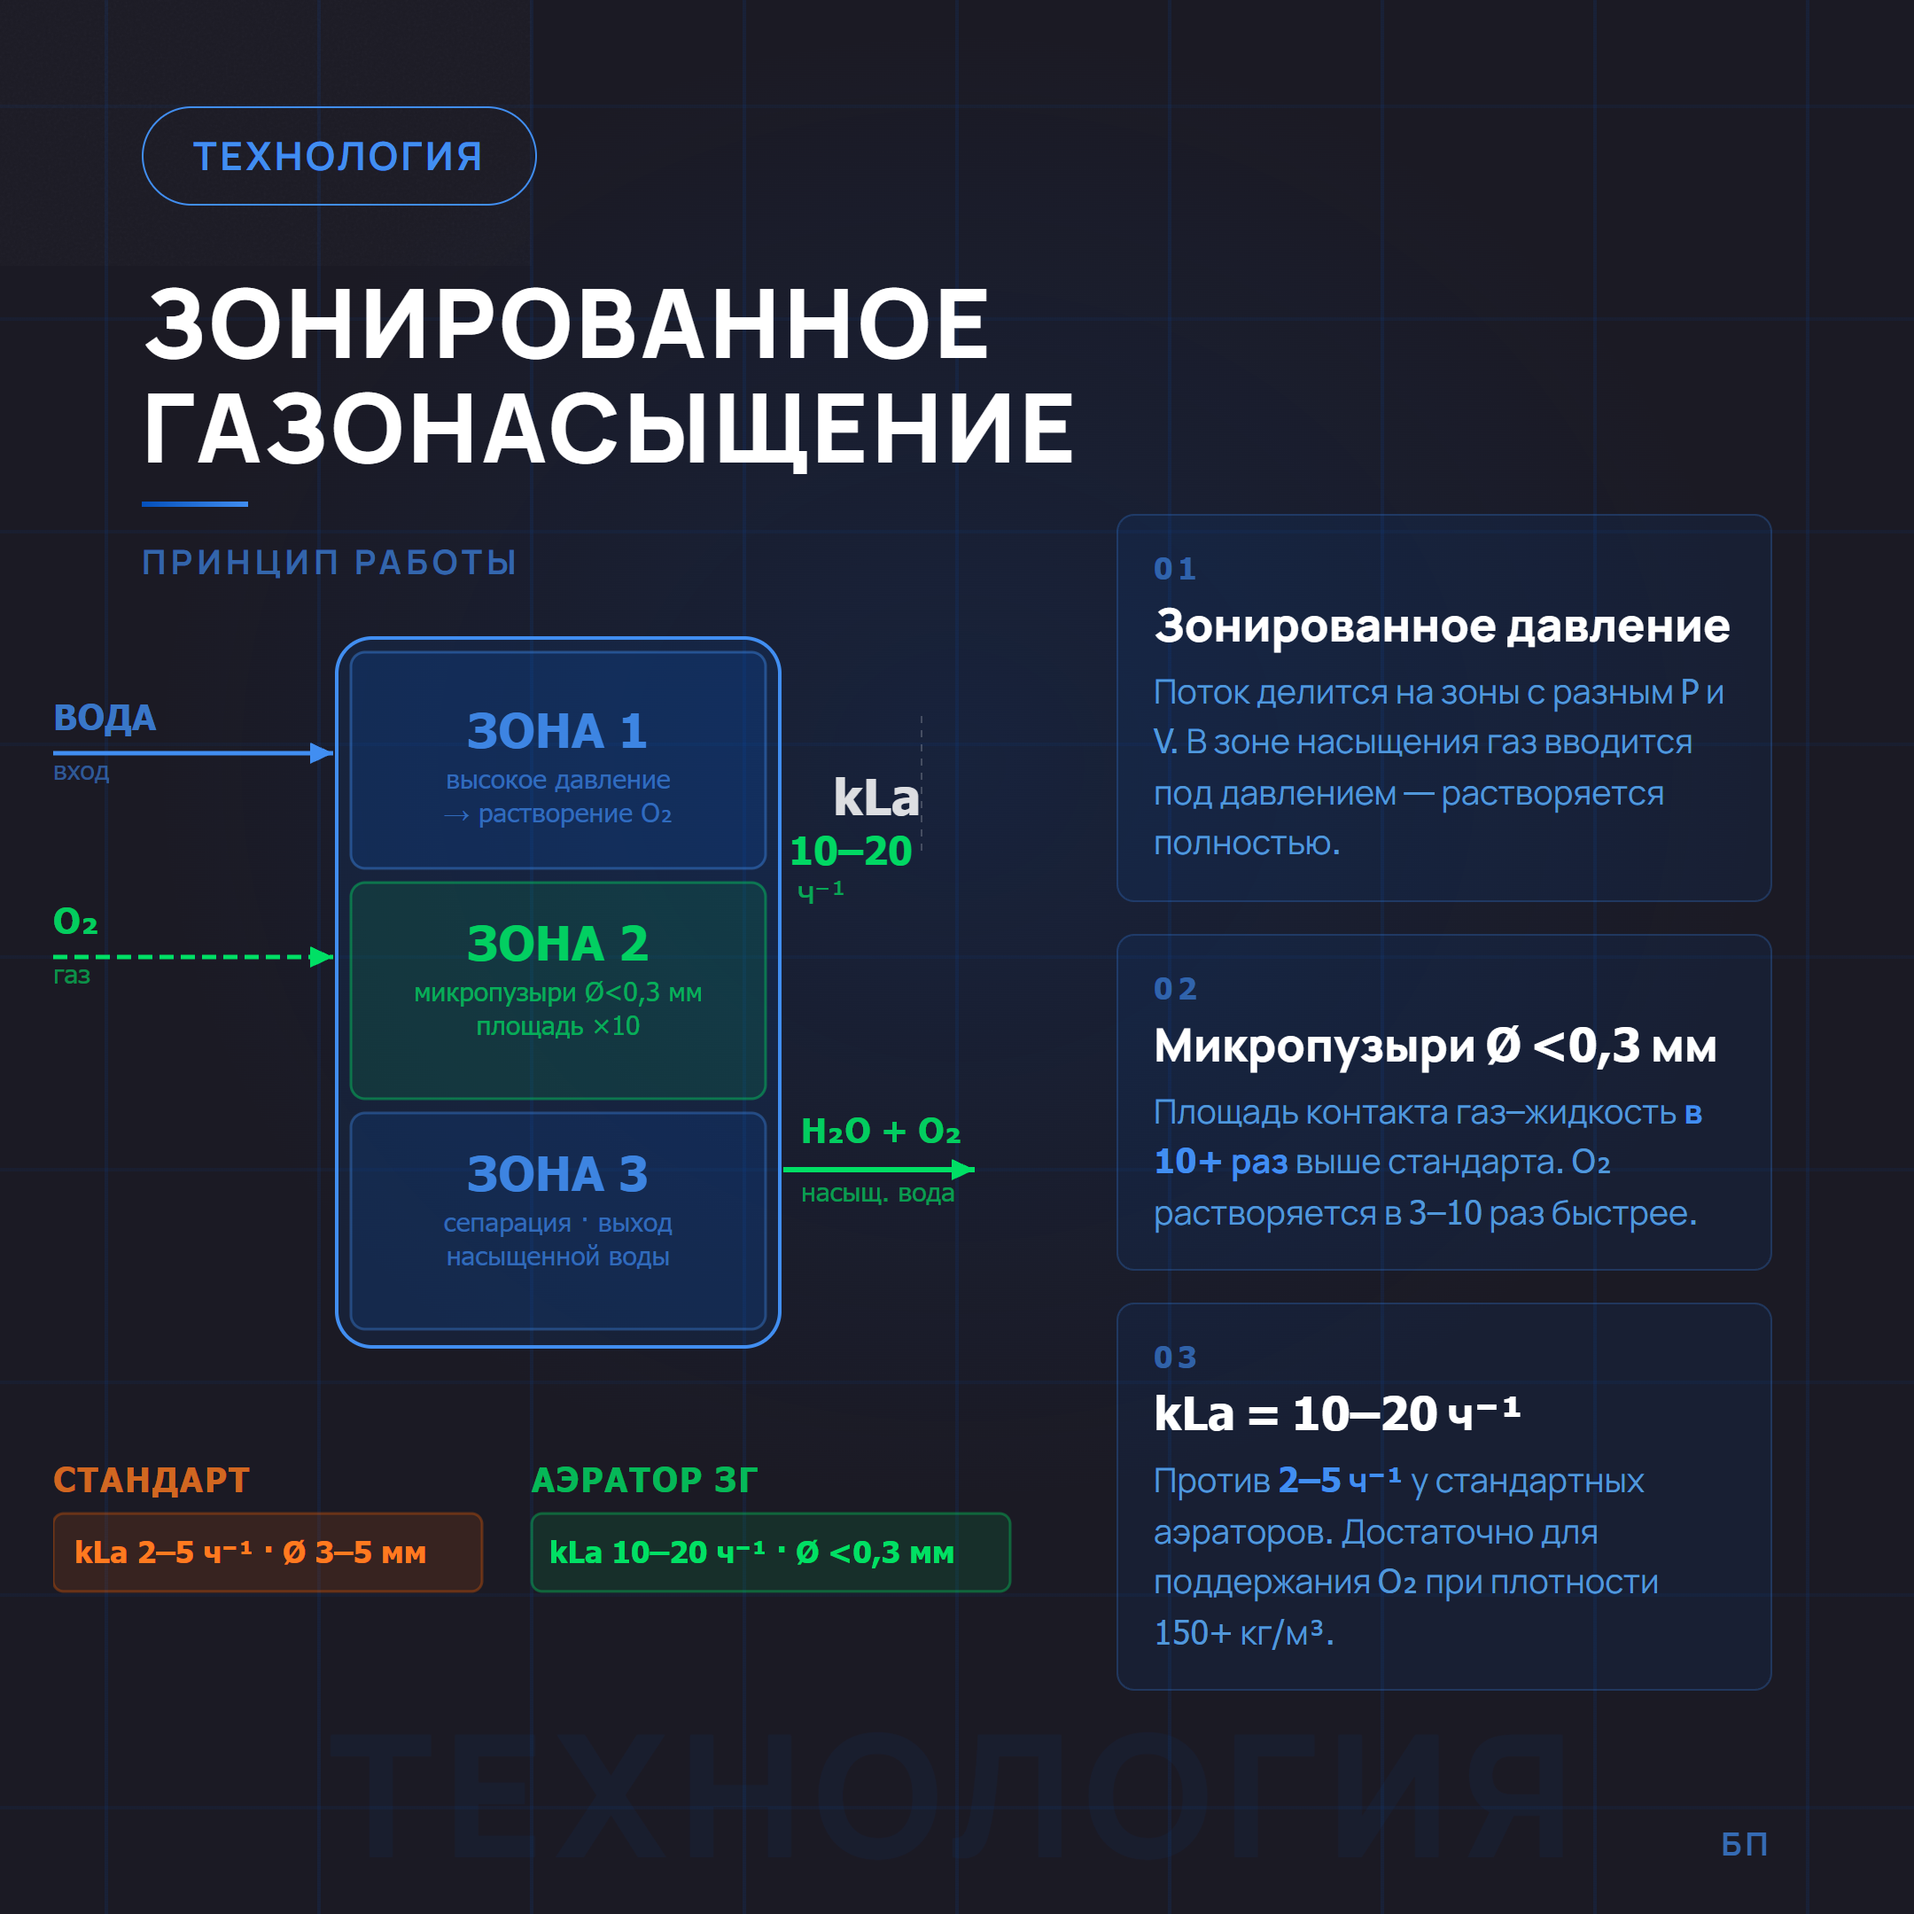
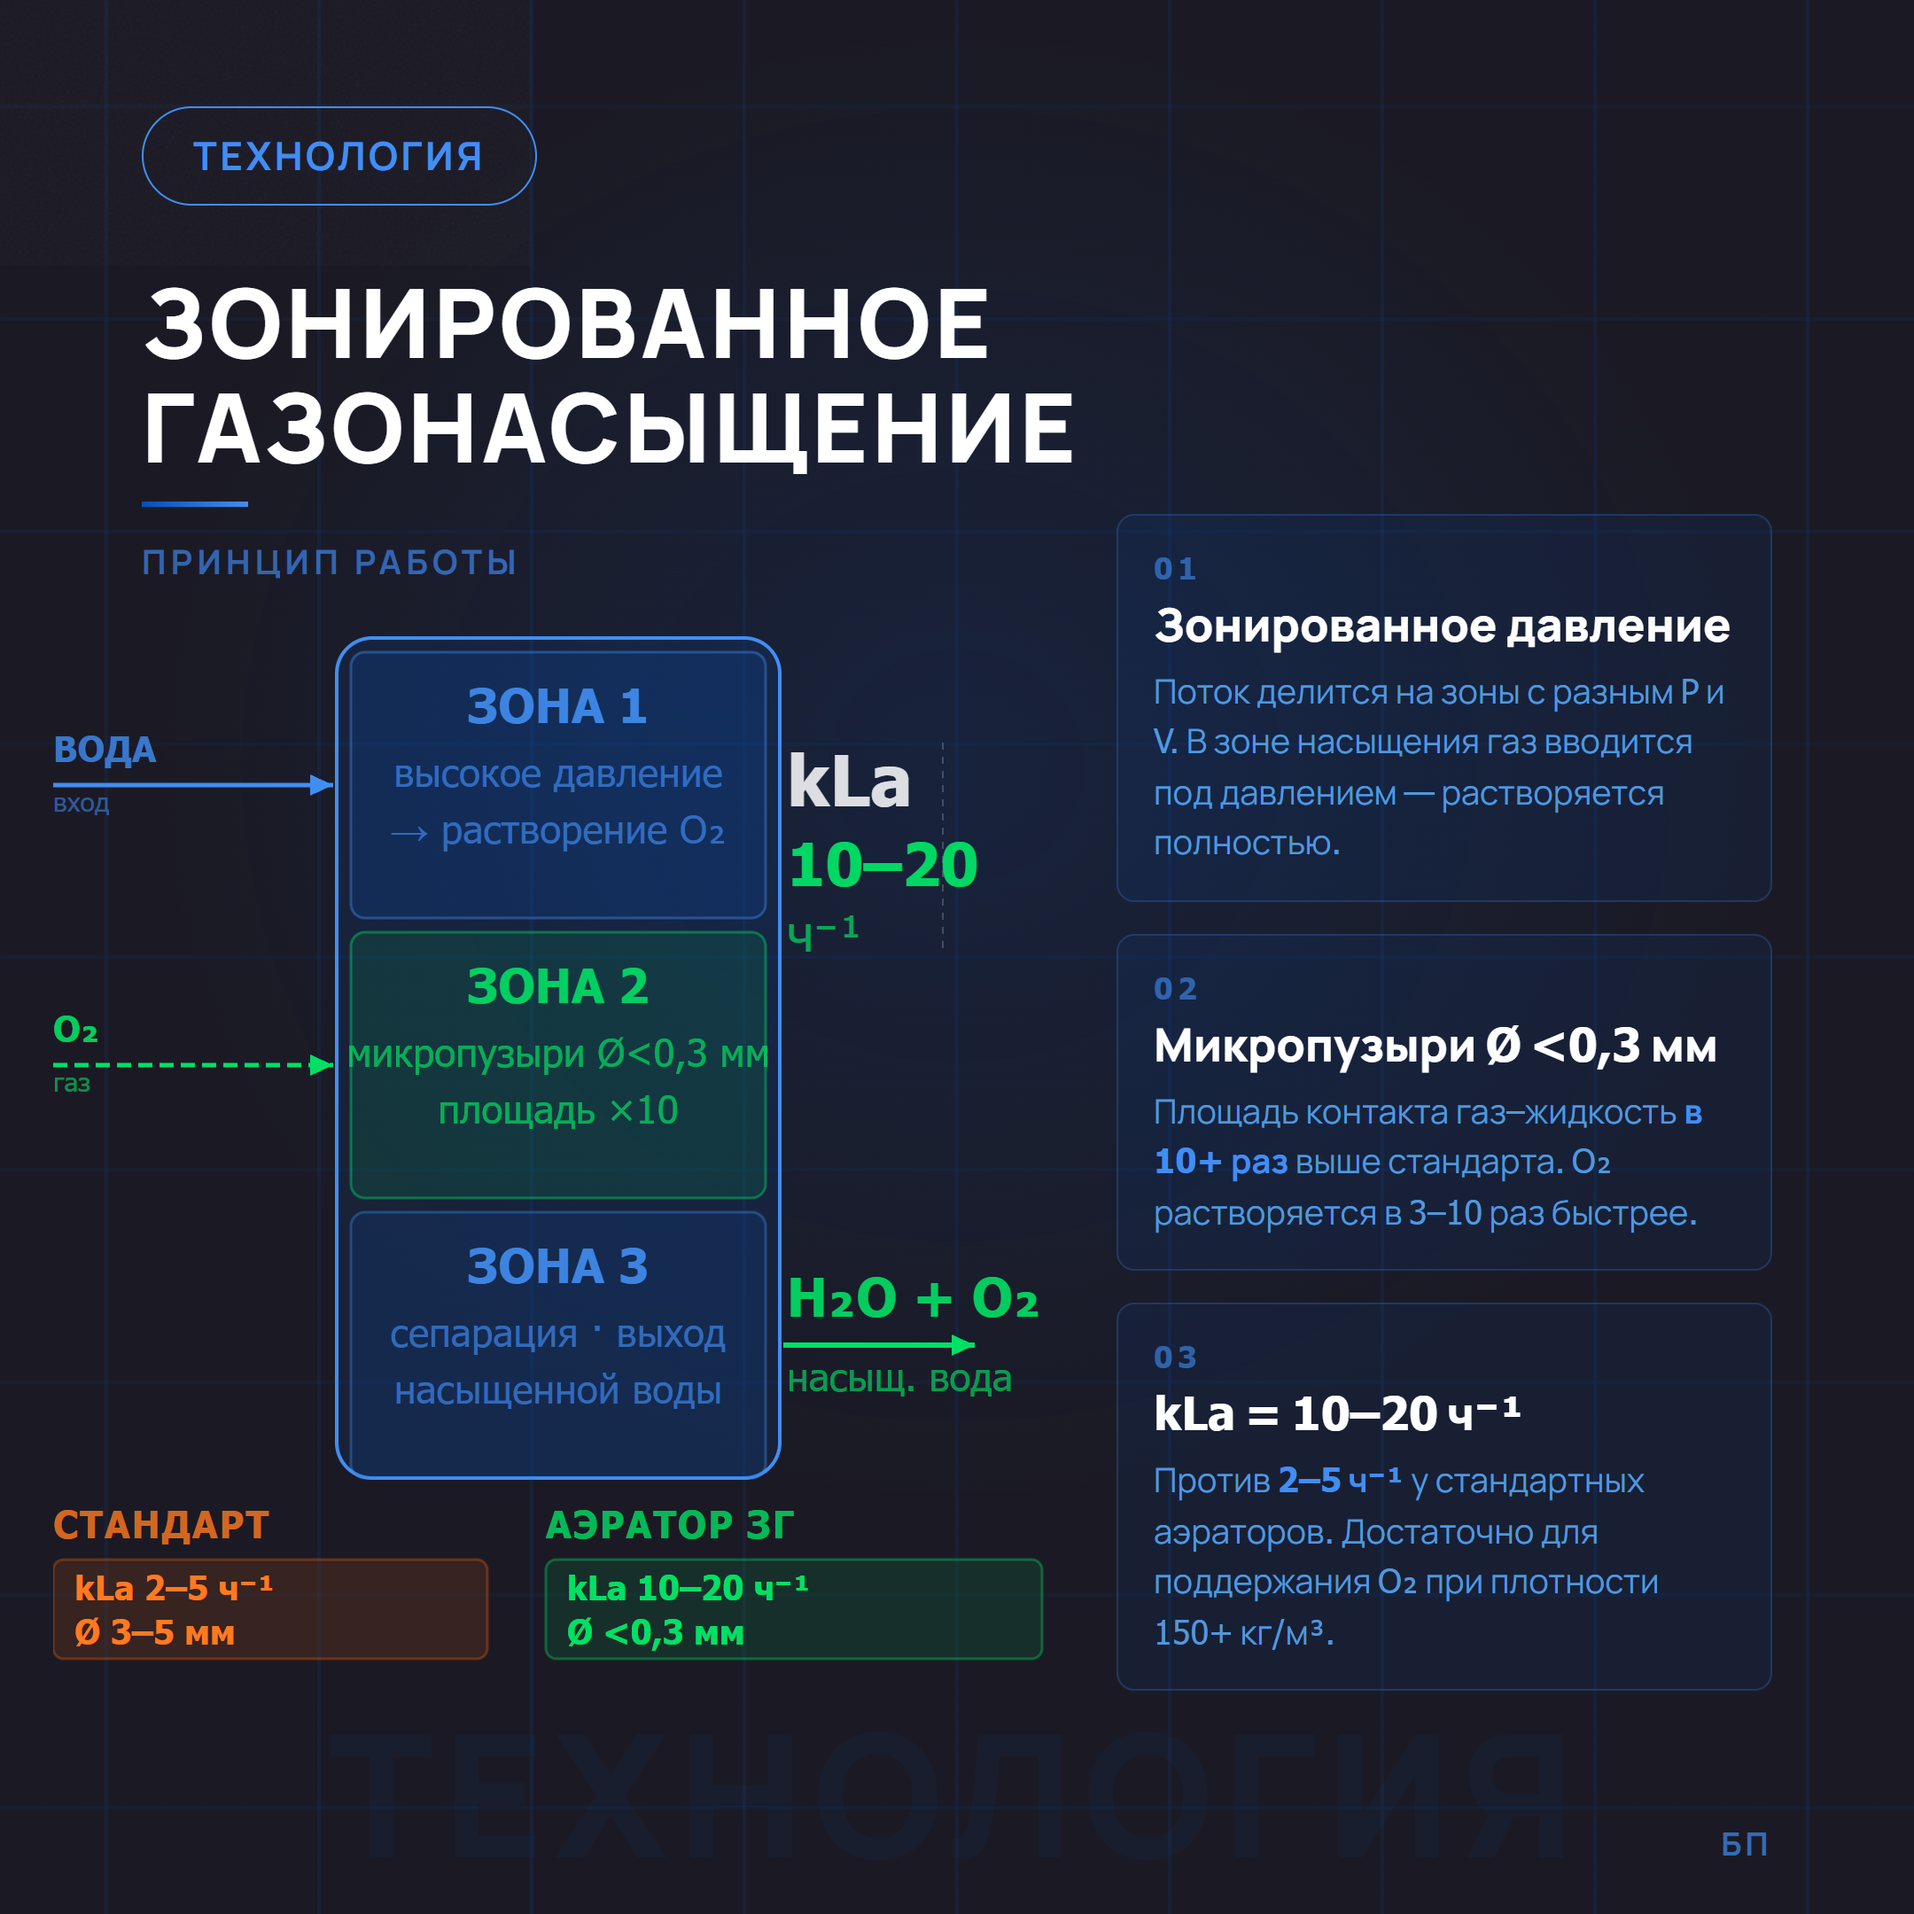
posts: корректировка slide_03 — крупнее зоны, kLa, СТАНДАРТ/АЭРАТОР ЗГ — Bioprintex_Limatex

Changed region(s): [[0.031, 0.3412, 0.5273, 0.8685], [0.031, 0.4653, 0.062, 0.5583], [0.031, 0.3722, 0.0931, 0.4343]]

diff --git a/projects/Bioprintex_Limatex/posts/drafts/05_05_2026-1/slide_03.html b/projects/Bioprintex_Limatex/posts/drafts/05_05_2026-1/slide_03.html
@@ -83,61 +83,63 @@
   <div class="diagram-label">Принцип работы</div>
 
   <!-- SVG-схема аэратора ЗГ -->
-  <svg style="position:absolute;top:340px;left:30px;width:560px;height:610px" viewBox="0 0 560 610" xmlns="http://www.w3.org/2000/svg">
+  <svg style="position:absolute;top:340px;left:30px;width:560px;height:620px" viewBox="0 0 560 620" xmlns="http://www.w3.org/2000/svg">
 
     <!-- Корпус аэратора -->
-    <rect x="160" y="20" width="250" height="400" rx="20" fill="rgba(4,79,186,0.12)" stroke="#418EF1" stroke-width="2"/>
+    <rect x="160" y="20" width="250" height="474" rx="20" fill="rgba(4,79,186,0.12)" stroke="#418EF1" stroke-width="2"/>
 
-    <!-- Зоны давления внутри -->
-    <rect x="168" y="28" width="234" height="122" rx="8" fill="rgba(4,79,186,0.20)" stroke="rgba(65,142,241,0.40)" stroke-width="1.5"/>
-    <text x="285" y="82" text-anchor="middle" font-family="Tahoma,sans-serif" font-size="27" font-weight="700" fill="rgba(65,142,241,0.90)">ЗОНА 1</text>
-    <text x="285" y="105" text-anchor="middle" font-family="Tahoma,sans-serif" font-size="15" fill="rgba(65,142,241,0.65)">высокое давление</text>
-    <text x="285" y="124" text-anchor="middle" font-family="Tahoma,sans-serif" font-size="15" fill="rgba(65,142,241,0.65)">→ растворение O₂</text>
+    <!-- Зона 1: y=28, height=150 -->
+    <rect x="168" y="28" width="234" height="150" rx="8" fill="rgba(4,79,186,0.20)" stroke="rgba(65,142,241,0.40)" stroke-width="1.5"/>
+    <text x="285" y="68" text-anchor="middle" font-family="Tahoma,sans-serif" font-size="27" font-weight="700" fill="rgba(65,142,241,0.90)">ЗОНА 1</text>
+    <text x="285" y="104" text-anchor="middle" font-family="Tahoma,sans-serif" font-size="22" fill="rgba(65,142,241,0.65)">высокое давление</text>
+    <text x="285" y="136" text-anchor="middle" font-family="Tahoma,sans-serif" font-size="22" fill="rgba(65,142,241,0.65)">→ растворение O₂</text>
 
-    <rect x="168" y="158" width="234" height="122" rx="8" fill="rgba(0,175,80,0.14)" stroke="rgba(0,224,101,0.40)" stroke-width="1.5"/>
-    <text x="285" y="202" text-anchor="middle" font-family="Tahoma,sans-serif" font-size="27" font-weight="700" fill="rgba(0,224,101,0.90)">ЗОНА 2</text>
-    <text x="285" y="225" text-anchor="middle" font-family="Tahoma,sans-serif" font-size="15" fill="rgba(0,224,101,0.70)">микропузыри Ø&lt;0,3 мм</text>
-    <text x="285" y="244" text-anchor="middle" font-family="Tahoma,sans-serif" font-size="15" fill="rgba(0,224,101,0.70)">площадь ×10</text>
+    <!-- Зона 2: y=186, height=150 -->
+    <rect x="168" y="186" width="234" height="150" rx="8" fill="rgba(0,175,80,0.14)" stroke="rgba(0,224,101,0.40)" stroke-width="1.5"/>
+    <text x="285" y="226" text-anchor="middle" font-family="Tahoma,sans-serif" font-size="27" font-weight="700" fill="rgba(0,224,101,0.90)">ЗОНА 2</text>
+    <text x="285" y="262" text-anchor="middle" font-family="Tahoma,sans-serif" font-size="22" fill="rgba(0,224,101,0.70)">микропузыри Ø&lt;0,3 мм</text>
+    <text x="285" y="294" text-anchor="middle" font-family="Tahoma,sans-serif" font-size="22" fill="rgba(0,224,101,0.70)">площадь ×10</text>
 
-    <rect x="168" y="288" width="234" height="122" rx="8" fill="rgba(4,79,186,0.16)" stroke="rgba(65,142,241,0.35)" stroke-width="1.5"/>
-    <text x="285" y="332" text-anchor="middle" font-family="Tahoma,sans-serif" font-size="27" font-weight="700" fill="rgba(65,142,241,0.90)">ЗОНА 3</text>
-    <text x="285" y="355" text-anchor="middle" font-family="Tahoma,sans-serif" font-size="15" fill="rgba(65,142,241,0.65)">сепарация · выход</text>
-    <text x="285" y="374" text-anchor="middle" font-family="Tahoma,sans-serif" font-size="15" fill="rgba(65,142,241,0.65)">насыщенной воды</text>
+    <!-- Зона 3: y=344, height=150 -->
+    <rect x="168" y="344" width="234" height="150" rx="8" fill="rgba(4,79,186,0.16)" stroke="rgba(65,142,241,0.35)" stroke-width="1.5"/>
+    <text x="285" y="384" text-anchor="middle" font-family="Tahoma,sans-serif" font-size="27" font-weight="700" fill="rgba(65,142,241,0.90)">ЗОНА 3</text>
+    <text x="285" y="420" text-anchor="middle" font-family="Tahoma,sans-serif" font-size="22" fill="rgba(65,142,241,0.65)">сепарация · выход</text>
+    <text x="285" y="452" text-anchor="middle" font-family="Tahoma,sans-serif" font-size="22" fill="rgba(65,142,241,0.65)">насыщенной воды</text>
 
-    <!-- Вход воды (слева) -->
-    <line x1="0" y1="85" x2="158" y2="85" stroke="#418EF1" stroke-width="2.5"/>
-    <polygon points="158,85 145,79 145,91" fill="#418EF1"/>
-    <text x="0" y="72" font-family="Tahoma,sans-serif" font-size="20" font-weight="800" fill="rgba(65,142,241,0.80)">ВОДА</text>
-    <text x="0" y="100" font-family="Tahoma,sans-serif" font-size="15" fill="rgba(65,142,241,0.55)">вход</text>
+    <!-- Вход воды (слева) — центр Зоны 1: y=103 -->
+    <line x1="0" y1="103" x2="158" y2="103" stroke="#418EF1" stroke-width="2.5"/>
+    <polygon points="158,103 145,97 145,109" fill="#418EF1"/>
+    <text x="0" y="90" font-family="Tahoma,sans-serif" font-size="20" font-weight="800" fill="rgba(65,142,241,0.80)">ВОДА</text>
+    <text x="0" y="118" font-family="Tahoma,sans-serif" font-size="15" fill="rgba(65,142,241,0.55)">вход</text>
 
-    <!-- Вход газа (слева) -->
-    <line x1="0" y1="200" x2="158" y2="200" stroke="#00E065" stroke-width="2.5" stroke-dasharray="8,4"/>
-    <polygon points="158,200 145,194 145,206" fill="#00E065"/>
-    <text x="0" y="187" font-family="Tahoma,sans-serif" font-size="20" font-weight="800" fill="rgba(0,224,101,0.90)">O₂</text>
-    <text x="0" y="215" font-family="Tahoma,sans-serif" font-size="15" fill="rgba(0,224,101,0.60)">газ</text>
+    <!-- Вход газа (слева) — центр Зоны 2: y=261 -->
+    <line x1="0" y1="261" x2="158" y2="261" stroke="#00E065" stroke-width="2.5" stroke-dasharray="8,4"/>
+    <polygon points="158,261 145,255 145,267" fill="#00E065"/>
+    <text x="0" y="248" font-family="Tahoma,sans-serif" font-size="20" font-weight="800" fill="rgba(0,224,101,0.90)">O₂</text>
+    <text x="0" y="276" font-family="Tahoma,sans-serif" font-size="15" fill="rgba(0,224,101,0.60)">газ</text>
 
-    <!-- Выход воды (справа) -->
-    <line x1="412" y1="320" x2="520" y2="320" stroke="#00E065" stroke-width="3"/>
-    <polygon points="520,320 507,314 507,326" fill="#00E065"/>
-    <text x="422" y="305" font-family="Tahoma,sans-serif" font-size="19" font-weight="800" fill="rgba(0,224,101,0.90)">H₂O + O₂</text>
-    <text x="422" y="338" font-family="Tahoma,sans-serif" font-size="15" fill="rgba(0,224,101,0.65)">насыщ. вода</text>
+    <!-- Выход воды (справа) — центр Зоны 3: y=419 -->
+    <line x1="412" y1="419" x2="520" y2="419" stroke="#00E065" stroke-width="3"/>
+    <polygon points="520,419 507,413 507,425" fill="#00E065"/>
+    <text x="414" y="403" font-family="Tahoma,sans-serif" font-size="30" font-weight="800" fill="rgba(0,224,101,0.90)">H₂O + O₂</text>
+    <text x="414" y="445" font-family="Tahoma,sans-serif" font-size="22" fill="rgba(0,224,101,0.65)">насыщ. вода</text>
 
-    <!-- kLa стрелка вверх -->
-    <line x1="490" y1="140" x2="490" y2="60" stroke="rgba(255,255,255,0.20)" stroke-width="1" stroke-dasharray="4,4"/>
-    <text x="440" y="120" font-family="Tahoma,sans-serif" font-size="28" font-weight="800" fill="white" opacity="0.85">kLa</text>
-    <text x="415" y="148" font-family="Tahoma,sans-serif" font-size="22" font-weight="700" fill="#00E065" opacity="0.95">10–20</text>
-    <text x="420" y="170" font-family="Tahoma,sans-serif" font-size="18" fill="rgba(0,224,101,0.70)">ч⁻¹</text>
-
-    <!-- Микропузыри убраны -->
+    <!-- kLa — справа от корпуса -->
+    <line x1="502" y1="195" x2="502" y2="76" stroke="rgba(255,255,255,0.20)" stroke-width="1" stroke-dasharray="4,4"/>
+    <text x="414" y="115" font-family="Tahoma,sans-serif" font-size="40" font-weight="800" fill="white" opacity="0.85">kLa</text>
+    <text x="414" y="160" font-family="Tahoma,sans-serif" font-size="34" font-weight="700" fill="#00E065" opacity="0.95">10–20</text>
+    <text x="414" y="197" font-family="Tahoma,sans-serif" font-size="28" fill="rgba(0,224,101,0.70)">ч⁻¹</text>
 
     <!-- Сравнение снизу -->
-    <text x="0" y="502" font-family="Tahoma,sans-serif" font-size="19" font-weight="700" fill="rgba(255,122,31,0.80)" letter-spacing="1">СТАНДАРТ</text>
-    <rect x="0" y="514" width="242" height="44" rx="6" fill="rgba(255,100,0,0.12)" stroke="rgba(255,100,0,0.30)" stroke-width="1.5"/>
-    <text x="12" y="542" font-family="Tahoma,sans-serif" font-size="17" font-weight="700" fill="#FF7A1F">kLa 2–5 ч⁻¹ · Ø 3–5 мм</text>
+    <text x="0" y="528" font-family="Tahoma,sans-serif" font-size="21" font-weight="700" fill="rgba(255,122,31,0.80)" letter-spacing="1">СТАНДАРТ</text>
+    <rect x="0" y="540" width="245" height="56" rx="6" fill="rgba(255,100,0,0.12)" stroke="rgba(255,100,0,0.30)" stroke-width="1.5"/>
+    <text x="12" y="563" font-family="Tahoma,sans-serif" font-size="19" font-weight="700" fill="#FF7A1F">kLa 2–5 ч⁻¹</text>
+    <text x="12" y="588" font-family="Tahoma,sans-serif" font-size="19" font-weight="700" fill="#FF7A1F">Ø 3–5 мм</text>
 
-    <text x="270" y="502" font-family="Tahoma,sans-serif" font-size="19" font-weight="700" fill="rgba(0,224,101,0.80)" letter-spacing="1">АЭРАТОР ЗГ</text>
-    <rect x="270" y="514" width="270" height="44" rx="6" fill="rgba(0,175,80,0.14)" stroke="rgba(0,224,101,0.35)" stroke-width="1.5"/>
-    <text x="280" y="542" font-family="Tahoma,sans-serif" font-size="17" font-weight="700" fill="#00E065">kLa 10–20 ч⁻¹ · Ø &lt;0,3 мм</text>
+    <text x="278" y="528" font-family="Tahoma,sans-serif" font-size="21" font-weight="700" fill="rgba(0,224,101,0.80)" letter-spacing="1">АЭРАТОР ЗГ</text>
+    <rect x="278" y="540" width="280" height="56" rx="6" fill="rgba(0,175,80,0.14)" stroke="rgba(0,224,101,0.35)" stroke-width="1.5"/>
+    <text x="290" y="563" font-family="Tahoma,sans-serif" font-size="19" font-weight="700" fill="#00E065">kLa 10–20 ч⁻¹</text>
+    <text x="290" y="588" font-family="Tahoma,sans-serif" font-size="19" font-weight="700" fill="#00E065">Ø &lt;0,3 мм</text>
   </svg>
 
   <div class="params">
